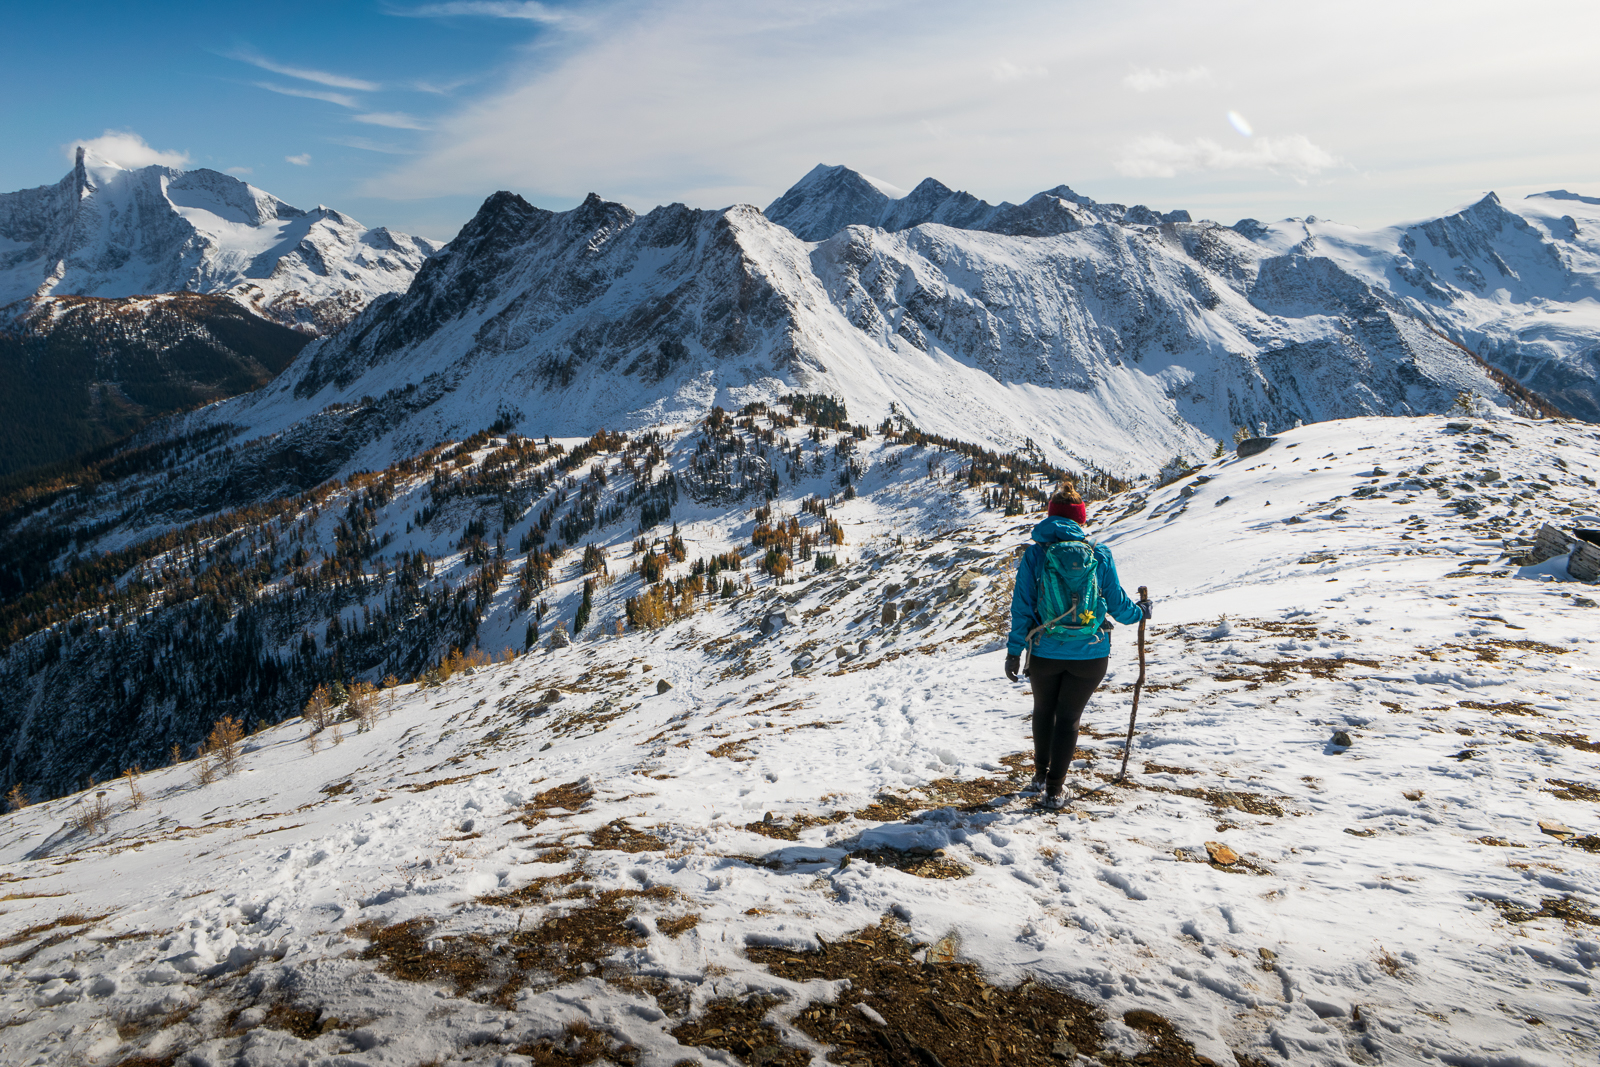
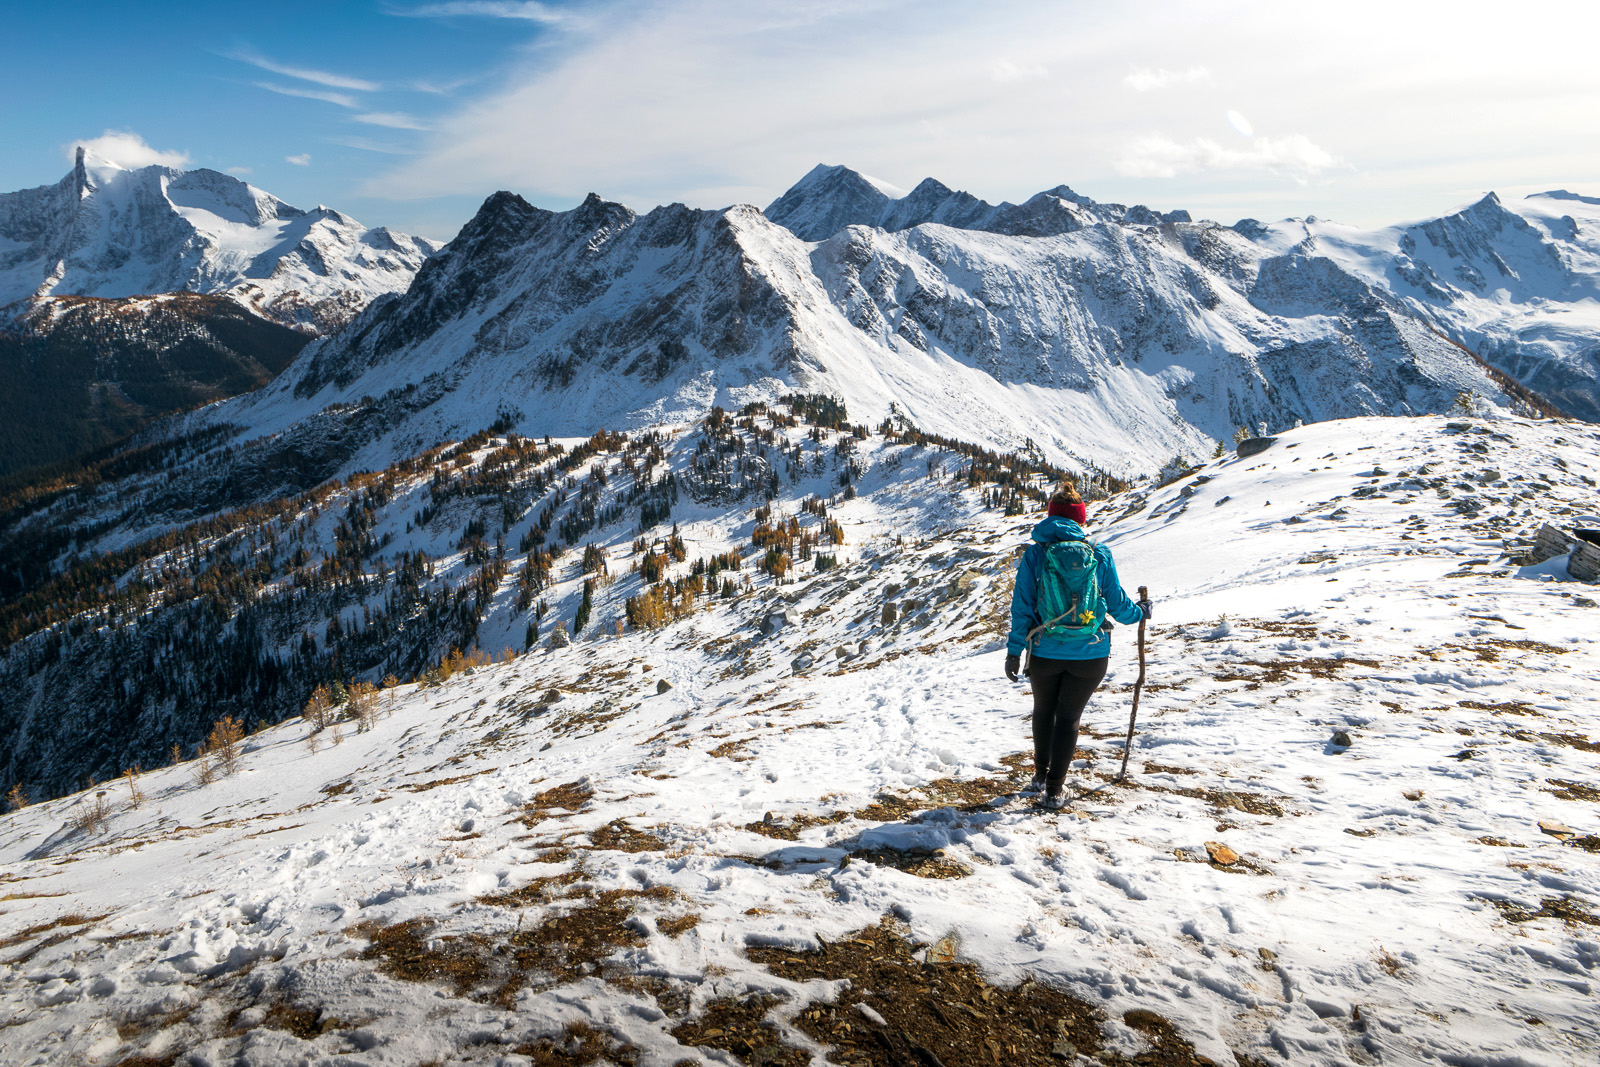
brightened images

diff --git a/client/src/components/Reservations/ReservationDates/ReservationDates.js b/client/src/components/Reservations/ReservationDates/ReservationDates.js
@@ -160,15 +160,19 @@ const ReservationDates = (props) => {
 		let acc=0;
 		let prices = [];
 		let jsxObj = {};
+		console.log(cabinData);
+
 		if(cabinData.price.length>1){prices = cabinData.price}
-			else{
+			else{ 
 				for(let j=1; j<=quantity; j++){
 					prices.push(cabinData.price[0])
 				}
 			}
+			console.log(prices)
 		for(let i=1; i<=quantity; i++){
 			jsxObj[`Day ${i}`] = "$"+prices[i-1]
 			acc+= +prices[i-1];
+			console.log(jsxObj)
 		}
 		jsxObj["+13% Tax"] = "$"+(+acc*0.13).toFixed(2);
 		

diff --git a/client/src/components/Reservations/ReservationIcons/ReservationIcon/ReservationIcon.js b/client/src/components/Reservations/ReservationIcons/ReservationIcon/ReservationIcon.js
@@ -6,7 +6,7 @@ const ReservationIcon = (props) => {
 	const [inView, setInView] = useState(false);
 	let price = props.hut.price[0];
 	if(props.hut.price.length>1){
-		let sortedP = props.hut.price.sort((a,b)=>a-b);
+		let sortedP = props.hut.price.slice().sort((a,b)=>a-b);
 		price = `${sortedP[0]}/${sortedP[sortedP.length-1]}`
 	}
 	return (
